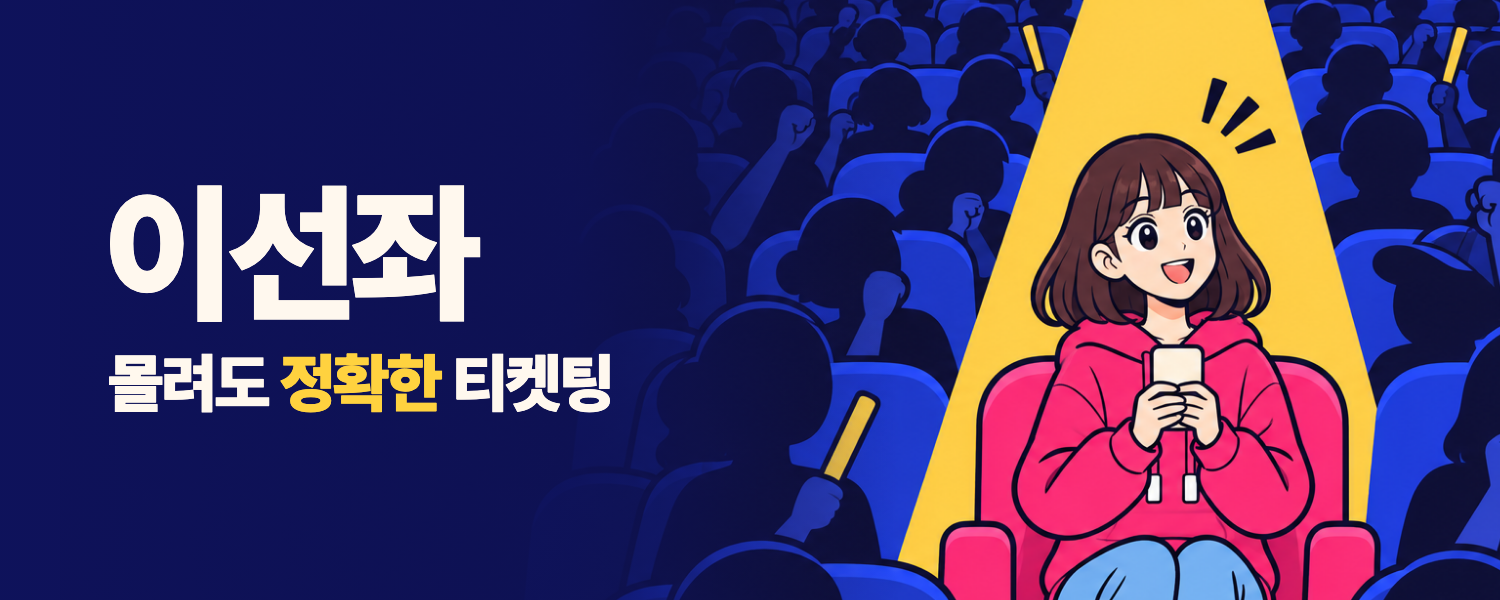
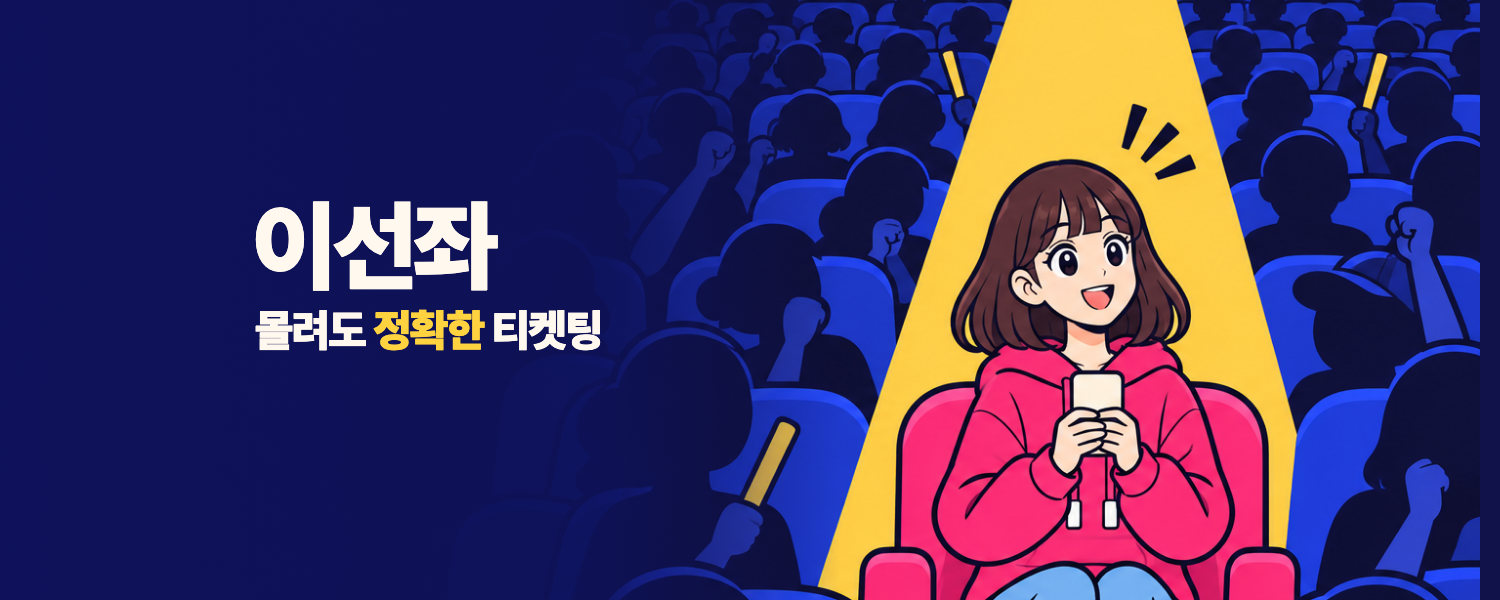
docs(presentation): Notion 커버를 갤러리 카드와 상단 커버가 함께 쓰도록 글자 위치를 옮김 #ISE-297

diff --git a/docs/presentation/brand/2026-11-16-notion-cover-wide.html b/docs/presentation/brand/2026-11-16-notion-cover-wide.html
@@ -8,21 +8,25 @@
   @font-face { font-family: "PretendardLocal"; src: local("Pretendard Black"), local("Pretendard-Black"), url("https://cdn.jsdelivr.net/gh/orioncactus/pretendard@v1.3.9/dist/web/static/woff2/Pretendard-Black.woff2"); font-weight: 900; }
   @font-face { font-family: "PretendardLocal"; src: local("Pretendard Bold"), local("Pretendard-Bold"), url("https://cdn.jsdelivr.net/gh/orioncactus/pretendard@v1.3.9/dist/web/static/woff2/Pretendard-Bold.woff2"); font-weight: 700; }
   html, body { margin: 0; padding: 0; background: #14101A; }
-  /* 1500x600. 상단 커버는 가운데 가로 띠만 남기므로 글자와 얼굴을 y=150~450 안에 둔다 */
+  /* 1500x600 한 장을 갤러리 카드와 페이지 상단 커버가 함께 쓴다. 둘이 다르게 자른다.
+     - 갤러리 카드: 약 1.85:1로 가로 가운데만 남는다(x 약 195~1305).
+     - 상단 커버: 화면 폭에 따라 약 5:1~7:1로 세로 가운데만 남는다(y 약 190~410).
+       페이지 아이콘이 왼쪽 3분의 1 지점 아래쪽(x 약 470~600, y 약 360 아래)을 가린다.
+     그래서 글자는 x 250~700, y 200~350 안에, 하린 얼굴은 x 940~1250, y 190~330 안에 둔다. */
   .cover {
     position: relative; width: 1500px; height: 600px; overflow: hidden;
     background: #11124A;
     font-family: "PretendardLocal", sans-serif;
   }
-  /* 원본 1536x1024를 폭 1500으로 줄이고, 얼굴~폰(원본 y 240~520)이 세로 가운데에 오게 올린다 */
-  .art { position: absolute; left: 60px; top: -96px; width: 1500px; height: auto; }
+  /* 원본 1536x1024를 폭 1500으로 줄이고, 하린이 카드 안에 들도록 왼쪽으로, 얼굴이 띠 안에 들도록 위로 옮긴다 */
+  .art { position: absolute; left: -20px; top: -70px; width: 1500px; height: auto; }
   .scrim {
     position: absolute; inset: 0;
-    background: linear-gradient(90deg, rgba(14,18,92,.92) 0%, rgba(14,18,92,.78) 38%, rgba(14,18,92,0) 60%);
+    background: linear-gradient(90deg, rgba(14,18,92,.94) 0%, rgba(14,18,92,.82) 40%, rgba(14,18,92,0) 56%);
   }
-  .copy { position: absolute; left: 104px; top: 50%; transform: translateY(-50%); color: #FFF8EE; }
-  .name { font-weight: 900; font-size: 150px; line-height: .95; letter-spacing: -.04em; margin: 0; }
-  .line { font-weight: 900; font-size: 64px; line-height: 1.1; letter-spacing: -.03em; margin: 22px 0 0 4px; }
+  .copy { position: absolute; left: 252px; top: 200px; color: #FFF8EE; }
+  .name { font-weight: 900; font-size: 98px; line-height: .95; letter-spacing: -.04em; margin: 0; }
+  .line { font-weight: 900; font-size: 44px; line-height: 1.1; letter-spacing: -.03em; margin: 14px 0 0 3px; }
   .line em { font-style: normal; color: #FFD23F; }
 </style>
 </head>

diff --git a/docs/presentation/brand/README.md b/docs/presentation/brand/README.md
@@ -11,7 +11,7 @@
 | 2026-11-12 | [2026-11-12-charm-pets-sheet.png](2026-11-12-charm-pets-sheet.png) | 부적 펫 묶음. 펫은 미리 그린 부품(종류 10, 털색 4, 머리 장식 6(헤드폰·학사모·왕관·리본·새싹·별핀), 든 것 5, 조합 1,200개)을 겹친다. 위 두 줄은 종류 10가지, 아래 두 줄은 예매 ID 1001~1010에 실제로 배정되는 펫이다. 원본은 브랜치 `feat/ISE-257-charm-event`의 `frontend/src/pages/charm/charmPets.ts`이고 `frontend/tools/charm-art/preview.mjs`로 찍었다 |
 | 2026-11-12 | [2026-11-12-charm-ticket-normal.png](2026-11-12-charm-ticket-normal.png), [2026-11-12-charm-ticket-shiny.png](2026-11-12-charm-ticket-shiny.png) | 부적 일반·반짝이(레어) 두 장, 1080×1920. 반짝이는 연속한 예매 16건마다 한 장이고 무지개 박 바탕, 박 테두리, 빛줄기, 금색 "레어 부적" 칩을 둔다. 응원 문장은 인생 전반의 동기부여·응원 40개이고, 떼는 칸 도장은 8가지 중 하나다. 닉네임은 앞 8자만 줄임표 없이 보인다. 원본은 같은 브랜치의 `charmTicket.ts`다 |
 | 2026-11-12 | [2026-11-12-charm-stamps-sheet.png](2026-11-12-charm-stamps-sheet.png) | 부적 떼는 칸 도장 8가지. 소원 성취, 만사 형통, 행운 가득, 대박 기원, 건강 기원, 일취 월장은 붉은 인주색, 예매 말장난인 꽃길 예약, 행복 예매는 주 색 `#3B3BD4`다. 사각과 원형을 번갈아 두고 기울기를 조금씩 다르게 했다. 연속한 예매 8건마다 한 번씩 나온다 |
-| 2026-11-16 | [2026-11-16-notion-cover.png](2026-11-16-notion-cover.png), [와이드판](2026-11-16-notion-cover-wide.png), [원본 HTML](2026-11-16-notion-cover.html), [와이드 HTML](2026-11-16-notion-cover-wide.html), [그림 원본](2026-11-16-notion-cover-art.png), [만든 방법](2026-11-16-notion-cover-prompt.md) | teamsparta 프로젝트 소개 Notion 페이지의 갤러리 썸네일(1600×1000)과 상단 커버(1500×600)다(ISE-297). 관객이 꽉 찬 파란 좌석 사이, 조명을 받은 분홍 좌석 하나에 소개 영상의 하린이 앉아 있고 "이선좌 / 몰려도 정확한 티켓팅"을 얹었다. 그림은 codex 이미지 생성(하린 인물 시트 참조, 글자 없음)이고 글자는 HTML에서 Pretendard로 얹어 헤드리스 Chrome으로 찍었다. 프롬프트와 다시 만드는 명령은 "만든 방법"에 있다 |
+| 2026-11-16 | [2026-11-16-notion-cover-wide.png](2026-11-16-notion-cover-wide.png), [원본 HTML](2026-11-16-notion-cover-wide.html), [16:10판](2026-11-16-notion-cover.png), [16:10 HTML](2026-11-16-notion-cover.html), [그림 원본](2026-11-16-notion-cover-art.png), [만든 방법](2026-11-16-notion-cover-prompt.md) | teamsparta 프로젝트 소개 Notion 페이지(`[5조] 이선좌`)의 커버다(ISE-297). 갤러리 보기가 페이지 커버를 카드 미리보기로 쓰므로 와이드판(1500×600) 한 장이 갤러리 카드와 상단 커버를 함께 맡는다. 관객이 꽉 찬 파란 좌석 사이, 조명을 받은 분홍 좌석 하나에 소개 영상의 하린이 앉아 있고 "이선좌 / 몰려도 정확한 티켓팅"을 얹었다. 그림은 codex 이미지 생성(하린 인물 시트 참조, 글자 없음)이고 글자는 HTML에서 Pretendard로 얹어 헤드리스 Chrome으로 찍었다. 카드·상단 커버·페이지 아이콘이 자르는 영역과 프롬프트는 "만든 방법"에 있다 |
 
 ## 미리보기
 
@@ -25,4 +25,4 @@
 
 <img src="2026-11-12-charm-ticket-normal.png" alt="일반 부적" width="200"> <img src="2026-11-12-charm-ticket-shiny.png" alt="반짝이 부적" width="200">
 
-<img src="2026-11-16-notion-cover.png" alt="Notion 갤러리 썸네일" width="400"> <img src="2026-11-16-notion-cover-wide.png" alt="Notion 상단 커버 와이드판" width="500">
+<img src="2026-11-16-notion-cover-wide.png" alt="Notion 페이지 커버" width="500">

diff --git a/docs/presentation/brand/2026-11-16-notion-cover-prompt.md b/docs/presentation/brand/2026-11-16-notion-cover-prompt.md
@@ -1,11 +1,11 @@
 # Notion 프로젝트 소개 커버 만든 방법
 
-teamsparta 프로젝트 소개 Notion 페이지의 갤러리 썸네일과 상단 커버다(ISE-297). 같은 그림을 두 비율로 내보냈다.
+teamsparta 프로젝트 소개 Notion 페이지(`[Spring심화_10기] 최종 프로젝트 브로셔`의 `[5조] 이선좌`)의 커버다(ISE-297). 이 데이터베이스의 갤러리 보기는 카드 미리보기로 페이지 커버를 쓰므로, 와이드판 한 장이 갤러리 카드와 페이지 상단 커버를 함께 맡는다. 2026-11-16에 페이지 커버로 올렸다(그 전 커버는 "빠른 손 아니어도, 추첨으로 내 자리" 그림이었다).
 
 | 파일 | 크기 | 쓰는 곳 |
 |---|---|---|
-| `2026-11-16-notion-cover.png` | 1600×1000 | 갤러리 카드 썸네일 |
-| `2026-11-16-notion-cover-wide.png` | 1500×600 | 페이지 상단 커버 |
+| `2026-11-16-notion-cover-wide.png` | 1500×600 | Notion 페이지 커버(갤러리 카드와 상단 커버) |
+| `2026-11-16-notion-cover.png` | 1600×1000 | 16:10 판. Notion에는 쓰지 않았고 슬라이드처럼 잘리지 않는 곳에 쓴다 |
 | `2026-11-16-notion-cover-art.png` | 1536×1024 | 글자 없는 그림 원본(codex 생성) |
 
 ## 정한 것
@@ -17,7 +17,12 @@ teamsparta 프로젝트 소개 Notion 페이지의 갤러리 썸네일과 상단
 
 ## 잘림 확인
 
-갤러리 카드는 그림을 카드 비율로, 상단 커버는 넓은 띠로 자른다. 그래서 글자와 하린 얼굴을 세로 가운데에 모았다. 와이드판은 4:1로 잘라도 다 보이고, 6:1(넓은 모니터)에서는 하린 머리 끝만 조금 잘린다. 더 잘리면 Notion의 커버 위치 변경으로 맞춘다.
+같은 커버를 두 곳이 다르게 자른다.
+
+- 갤러리 카드: 약 1.85:1로 가로 가운데만 남는다(1500 폭 기준 x 약 195~1305).
+- 페이지 상단 커버: 화면 폭에 따라 약 5:1~7:1로 세로 가운데만 남고, 페이지 아이콘이 왼쪽 3분의 1 지점 아래쪽을 가린다.
+
+첫 와이드판은 글자를 왼쪽 끝에 크게 두어 카드에서 "선좌 / 도 정확한 티켓팅"만 보였고, 상단 커버에서는 아이콘이 "티켓팅"을 가렸다. 그래서 글자를 x 250~700, y 200~350 안으로 옮기고 줄였고, 하린 얼굴은 x 940~1250, y 190~330 안에 두었다. 올린 뒤 실제 Notion에서 갤러리 카드와 상단 커버(창 폭 1568)를 찍어 글자와 얼굴이 잘리거나 가려지지 않는 것을 확인했다. 다른 창 폭에서 잘리면 Notion의 커버 위치 변경으로 맞춘다.
 
 ## 다시 만드는 방법
 

diff --git a/docs/ai-judgments/junhyun/daily/2026-11-16.md b/docs/ai-judgments/junhyun/daily/2026-11-16.md
@@ -13,3 +13,4 @@
 - [부분 수용] AI가 썸네일 캐릭터로 발권 부적 펫(헤드폰 토끼 콩떡)을 쓰자고 했으나, 동물 대신 소개 영상 콘티 v2에서 codex로 만든 하린(분홍 후드 단발)을 쓰기로 했다. 장면 구성은 그대로 두었다 — 근거: "캐릭터 동물말고, 아티팩트로 생성해놓은 영상용 캐릭터 있어" (Claude Code)
 - [선택] AI가 하린 썸네일 시안 세 장(A 조명 받은 분홍 좌석, B 체크 좌석과 점프, C 좌석 파도) 중 A를 추천했고, A를 골라 상단 커버용 와이드판(1500×600)도 만들기로 했다 — 근거: "첫번째걸로 와이드판 만들어줘!" (Claude Code + codex 이미지 생성)
 - [수용] AI가 상단 커버용 와이드판을 저장소 `docs/presentation/brand/`에 넣는 일과 Notion 페이지에 올리는 일 중 고르라고 했고, 둘 다 하기로 했다. 저장소는 지금 브랜치 대신 dev에서 새 브랜치(ISE-297)로 올렸다 — 근거: "둘 다 해줘!" (Claude Code)
+- [수용] AI가 teamsparta `[5조] 이선좌` Notion 페이지에 이미 다른 커버("빠른 손 아니어도, 추첨으로 내 자리")가 있다며 바꿀지 물었고, 하린 커버로 바꾸기로 했다. 올린 뒤 AI가 갤러리 카드에서 글자가 잘리고 페이지 아이콘이 글자를 가리는 것을 찾아, 글자를 안쪽 위로 옮긴 와이드판 한 장으로 다시 올렸다 — 근거: "하린 커버로 교체"(선택지) (Claude Code)
